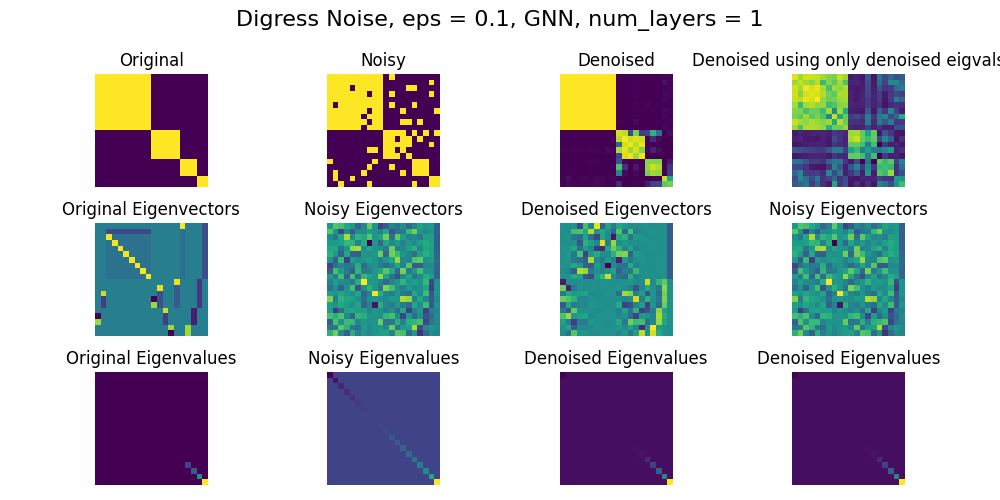
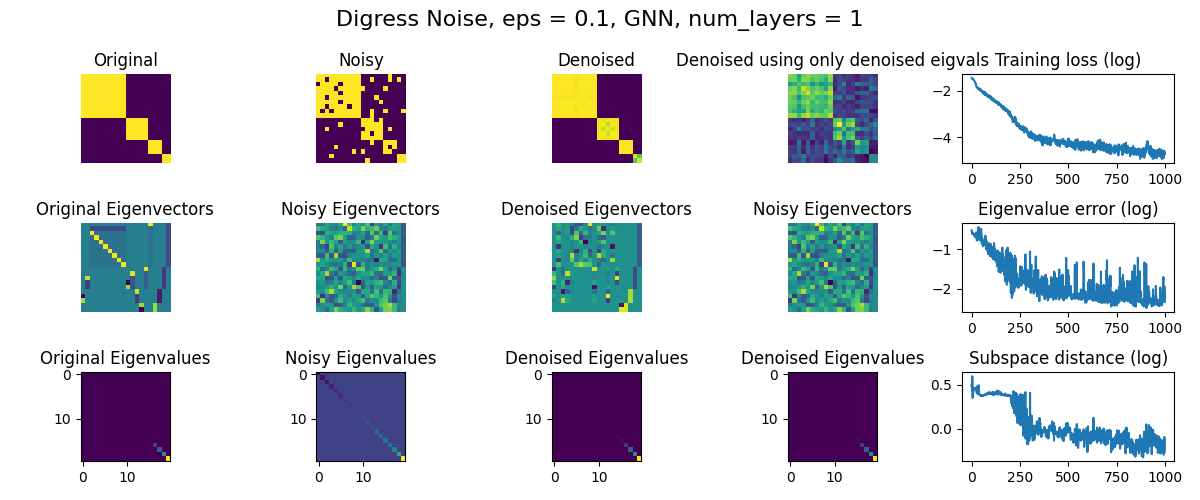
experiments tweak

diff --git a/denoising/main.py b/denoising/main.py
@@ -140,7 +140,24 @@ def main(args):
     # Training loop
     n_epochs = args.num_epochs
 
+    k_val = 4
+    l, V = eigsh(A, k=k_val, which='LM', maxiter=10000) 
+
+    if noise_type == 'Rotation':
+        A_noisy_fixed, V_noisy_fixed, l_noisy_fixed = add_rotation_noise(torch.tensor(A, dtype=torch.float32).unsqueeze(0), eps, skew)
+        A_noisy_fixed = A_noisy_fixed.squeeze(0)    
+        V_noisy_fixed = V_noisy_fixed.squeeze(0)
+        l_noisy_fixed = l_noisy_fixed.squeeze(0)
+
+    elif noise_type == 'Gaussian':
+        A_noisy_fixed, V_noisy_fixed, l_noisy_fixed = add_gaussian_noise(A, eps)
+
+    elif noise_type == 'Digress':
+        A_noisy_fixed, V_noisy_fixed, l_noisy_fixed = add_digress_noise(A, eps)
+
     loss_hist = np.zeros(n_epochs)
+    eigval_error_hist = np.zeros(n_epochs)
+    subspace_distance_hist = np.zeros(n_epochs)
     for epoch in range(n_epochs):
         model.train()  # Set model to training mode
         running_loss = 0.0
@@ -181,7 +198,30 @@ def main(args):
 
         loss_hist[epoch] = running_loss / len(dataloader)
 
-    # Optionally, evaluate the model on a test set
+        model.eval()
+
+        with torch.no_grad():
+            if model_type == 'MultiLayerAttention':
+                A_denoised = model(torch.unsqueeze(torch.FloatTensor(V_noisy_fixed), 0))[1][-1]
+            elif model_type == 'GNN':
+                A_denoised = model(torch.unsqueeze(torch.FloatTensor(A_noisy_fixed), 0))
+            elif model_type == 'NodeVarGNN':
+                A_denoised = model(torch.unsqueeze(torch.FloatTensor(A_noisy_fixed), 0))
+
+            A_denoised = np.array(A_denoised.detach())
+
+        l_denoised, V_denoised = eigsh(A_denoised[0], k=k_val, which='LM', maxiter=10000)
+
+        eigval_error = np.linalg.norm(l_denoised - l) / np.linalg.norm(l)
+        Proj_true = V @ V.T
+        Proj_denoised = V_denoised @ V_denoised.T
+        subspace_distance = np.linalg.norm(Proj_true - Proj_denoised, 'fro')
+
+        eigval_error_hist[epoch] = eigval_error
+        subspace_distance_hist[epoch] = subspace_distance
+
+        model.train()
+
     model.eval()  # Set model to evaluation mode
 
     # print(loss_hist)
@@ -215,7 +255,7 @@ def main(args):
 
     A_denoised_eigvalsonly = V_noisy @ np.diag(l_denoised) @ V_noisy.T
 
-    fig, axs = plt.subplots(3, 4, figsize=(10, 5))
+    fig, axs = plt.subplots(3, 5, figsize=(12, 5))
     axs
 
     axs[0,0].imshow(A)
@@ -254,11 +294,20 @@ def main(args):
     axs[2,3].imshow(np.diag(l_denoised))
     axs[2,3].set_title('Denoised Eigenvalues')  
 
+    axs[0,4].plot(np.log(loss_hist))
+    axs[0,4].set_title('Training loss (log)') 
+
+    axs[1,4].plot(np.log(eigval_error_hist))
+    axs[1,4].set_title('Eigenvalue error (log)')
+
+    axs[2,4].plot(np.log(subspace_distance_hist))
+    axs[2,4].set_title('Subspace distance (log)')
 
     axs.flatten()
 
-    for i in range(12):
-        axs.flatten()[i].axis('off')
+    for i in range(2):
+        for j in range(4):
+            axs[i, j].axis('off')
 
     if model_type == 'MultiLayerAttention':
         title = noise_type + ' Noise, eps = ' + str(eps) + ', Transformer Denoiser, num_layers = ' + str(num_layers) + ', num_heads = ' + str(num_heads)
